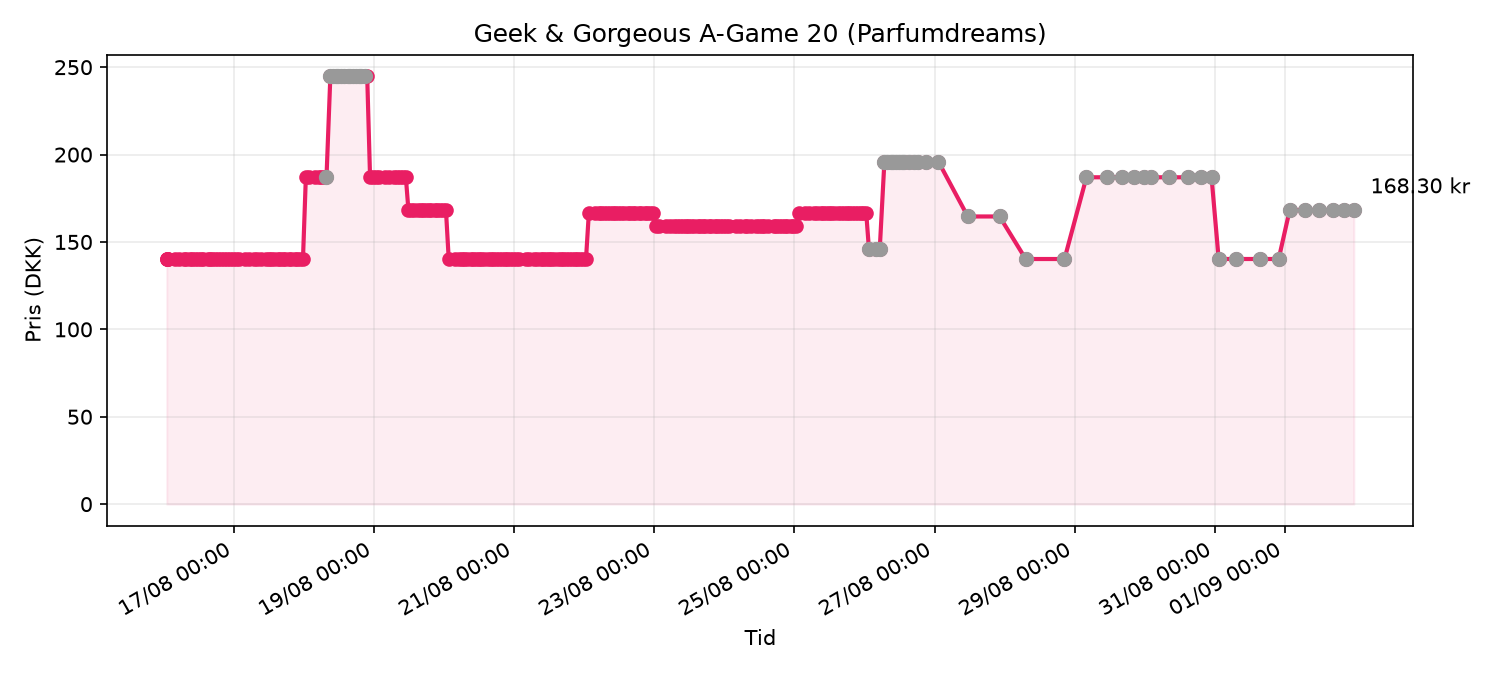
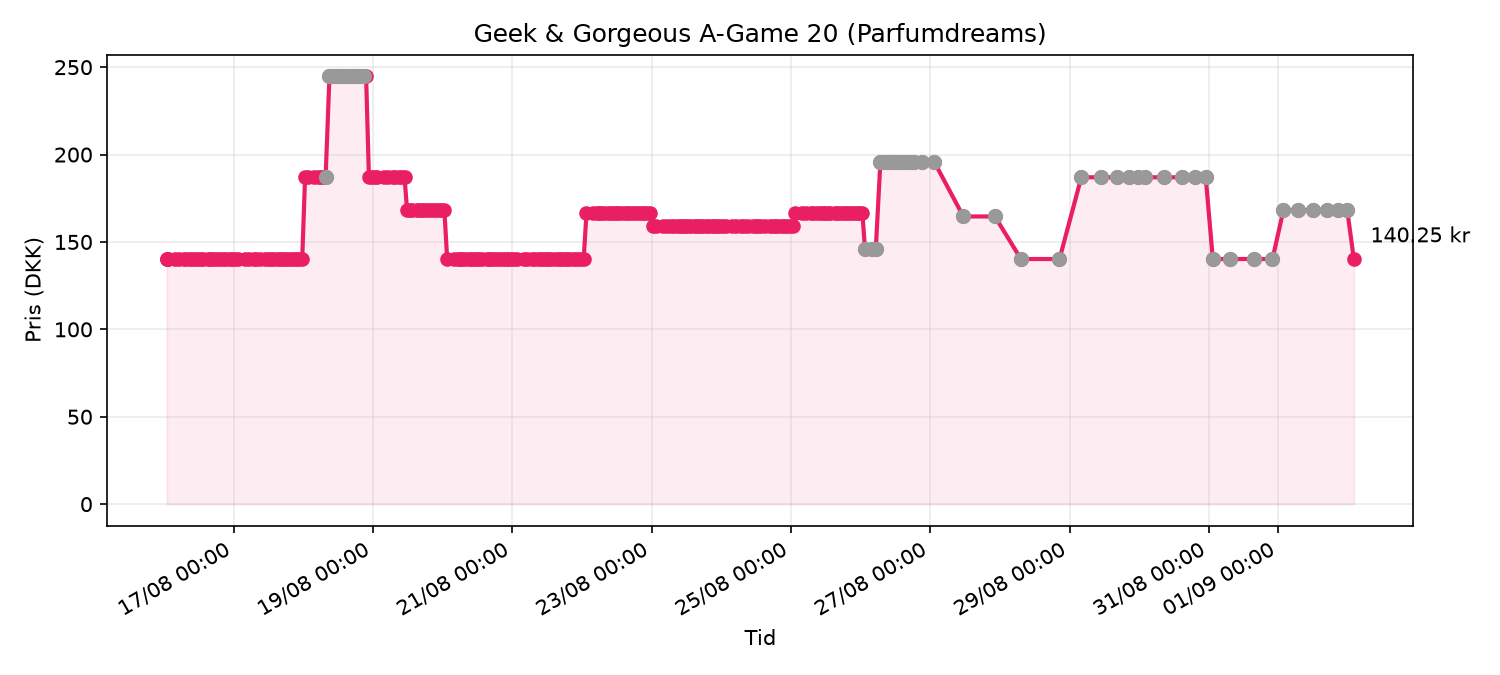
deploy: ac7faadc19c5bd41c6524dea223479a96fecbcc5

diff --git a/price_chart.html b/price_chart.html
@@ -13,7 +13,7 @@
 </head>
 <body>
   <h1>Geek & Gorgeous A-Game 20 (Parfumdreams)</h1>
-  <p class="meta">Senest tjekket: 01/09/2026 23:42 · Pris: <strong>168.30 kr</strong> · udsolgt</p>
+  <p class="meta">Senest tjekket: 02/09/2026 01:58 · Pris: <strong>140.25 kr</strong> · på lager</p>
   
   <p><a href="https://www.parfumdreams.dk/Geek-Gorgeous/Samlinger/101-aktive-stoffer/A-Game-20-Serum/index_137083.aspx?variation=221879">Åbn produkt på Parfumdreams</a></p>
   <img src="price_chart.png" alt="Prisgraf">
